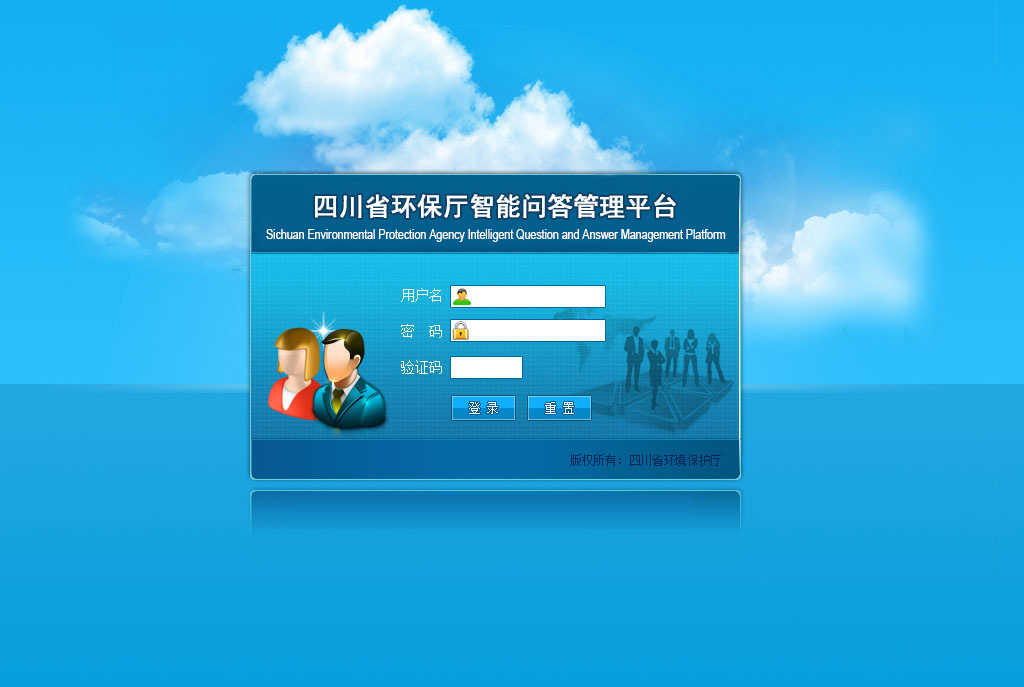
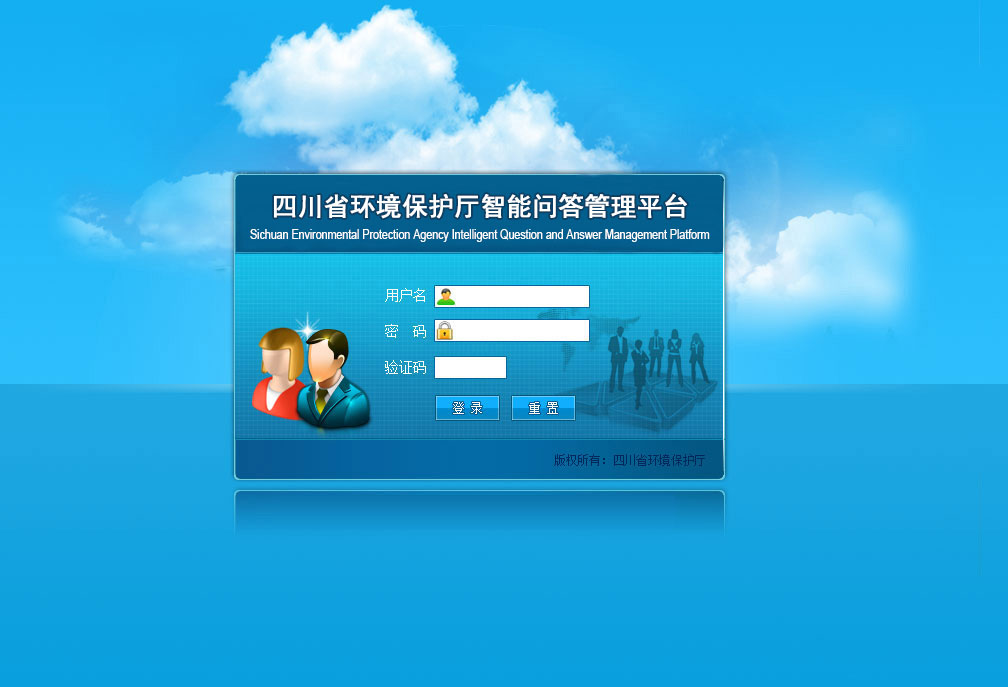
文字修改

Changed region(s): [[0.1538, 0.0, 0.7996, 0.7642], [0.4306, 0.5197, 0.5843, 0.6114], [0.0615, 0.2751, 0.1538, 0.3668]]

diff --git a/src/main/webapp/admin/indexManager.html b/src/main/webapp/admin/indexManager.html
@@ -2,7 +2,7 @@
 <html>
 <head>
     <meta charset="UTF-8">
-    <title>四川省环保厅智能问答管理平台</title>
+    <title>四川省环境保护厅智能问答管理平台</title>
     <link rel="stylesheet" type="text/css" href="style/global.css">
     <link rel="stylesheet" type="text/css" href="fonts/iconfont.css">
     <script type="text/javascript" src="js/jquery.min.js"></script>
@@ -15,7 +15,7 @@
 <body>
 <!--header-->
 <div class="header" id="topframe">
-    <div class="logo fl">四川省环保厅智能问答管理平台</div>
+    <div class="logo fl">四川省环境保护厅智能问答管理平台</div>
     <div class="topR fr">
         <ul>
             <li class="name">
